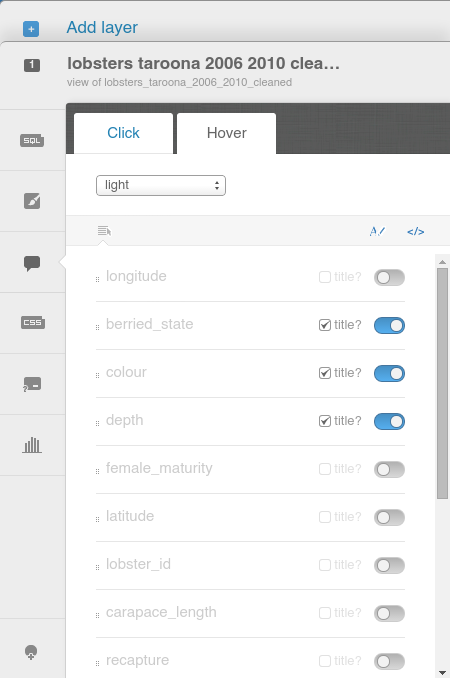
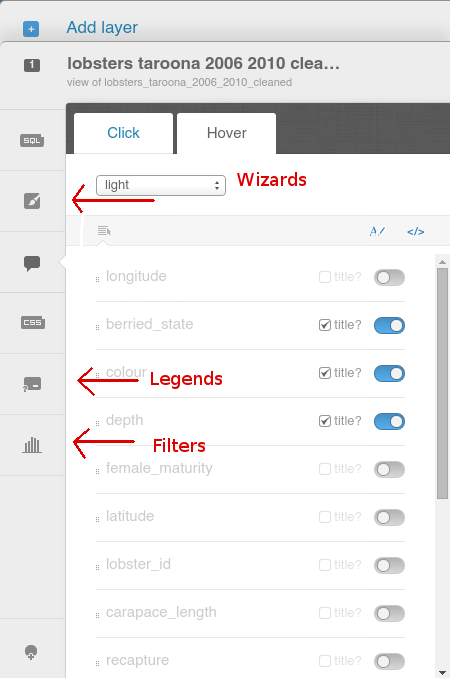
added new info to the slider image

diff --git a/cartodb-first_steps.rst b/cartodb-first_steps.rst
@@ -119,5 +119,10 @@ The Slider
 ----------
 
 The slider is the main way to interact with your data and map through the web.
+The purpose of many tabs in the right hand column are self evident - SQL gives 
+you the opportunity to write your own queries, CSS gives you the chance to 
+modify the design.
 
 .. image:: imgs/the_slider.png
+
+
